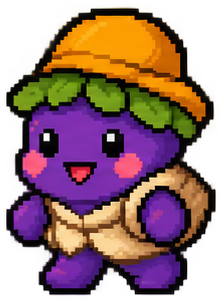
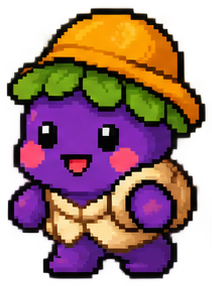
Simplify eggplant to stand/walk poses scaled the same way as tiger/mouse
The uploaded sheet's 5 middle jump poses have touching limbs with no
clean column gaps, so they can't be split without visible artifacts.
Use only the two cleanly-isolated, similarly-proportioned poses and
drop the per-character contain-box sizing in favor of the same
height-based scaling used for tiger and mouse, so eggplant now renders
at a consistent size like the others.

diff --git a/wwwroot/css/app.css b/wwwroot/css/app.css
@@ -460,14 +460,6 @@ code {
         align-self: center;
     }
 
-    .mascot-sprite img.mascot-eggplant {
-        height: 130px;
-        width: 120px;
-        object-fit: contain;
-        object-position: bottom center;
-        align-self: flex-end;
-    }
-
 .sparkle {
     position: absolute;
     color: #ffb703;
